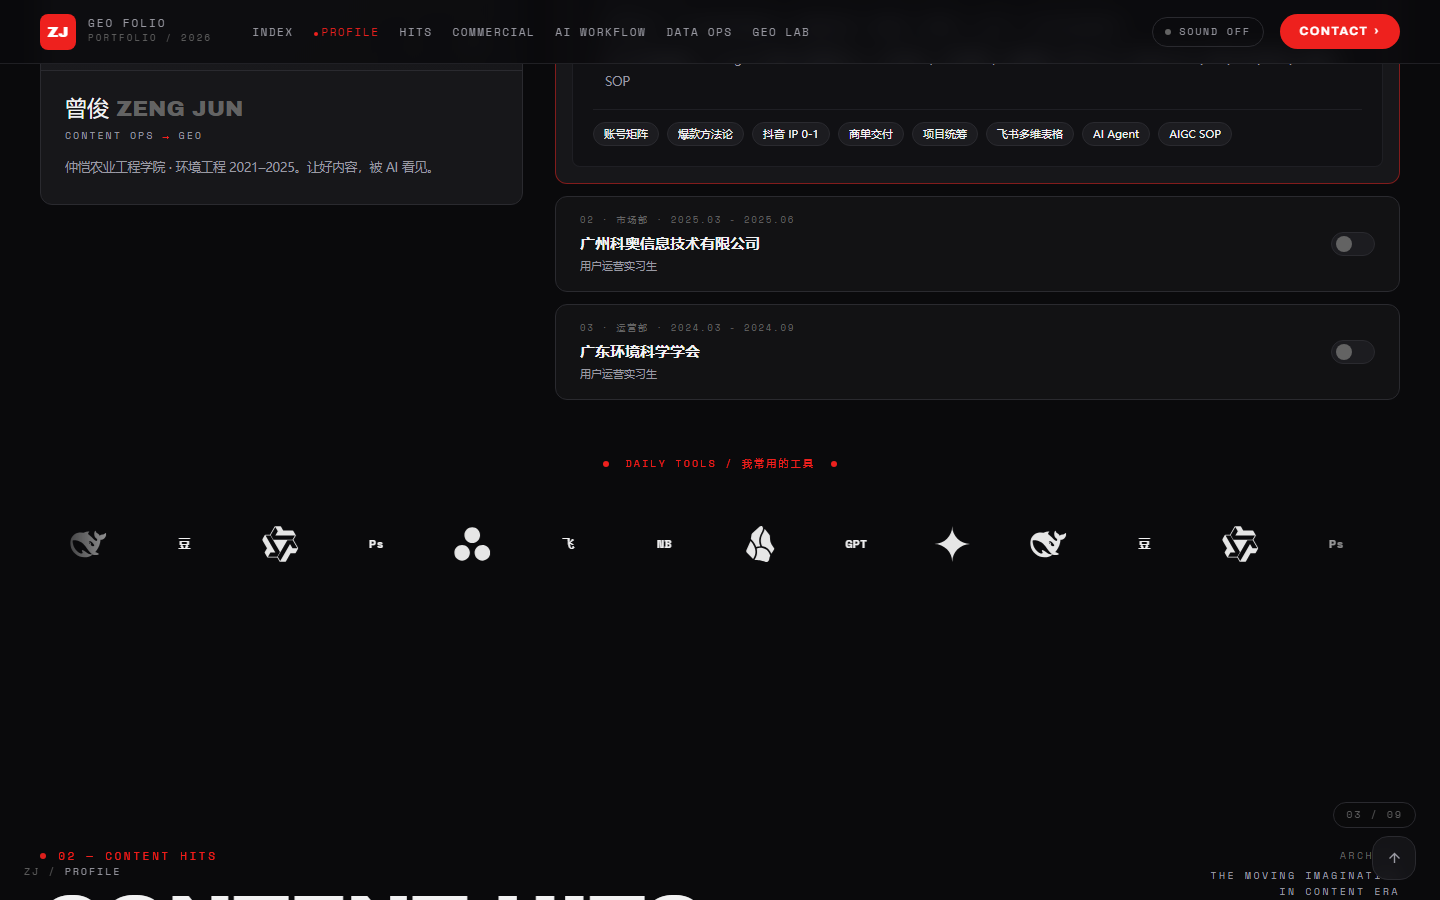
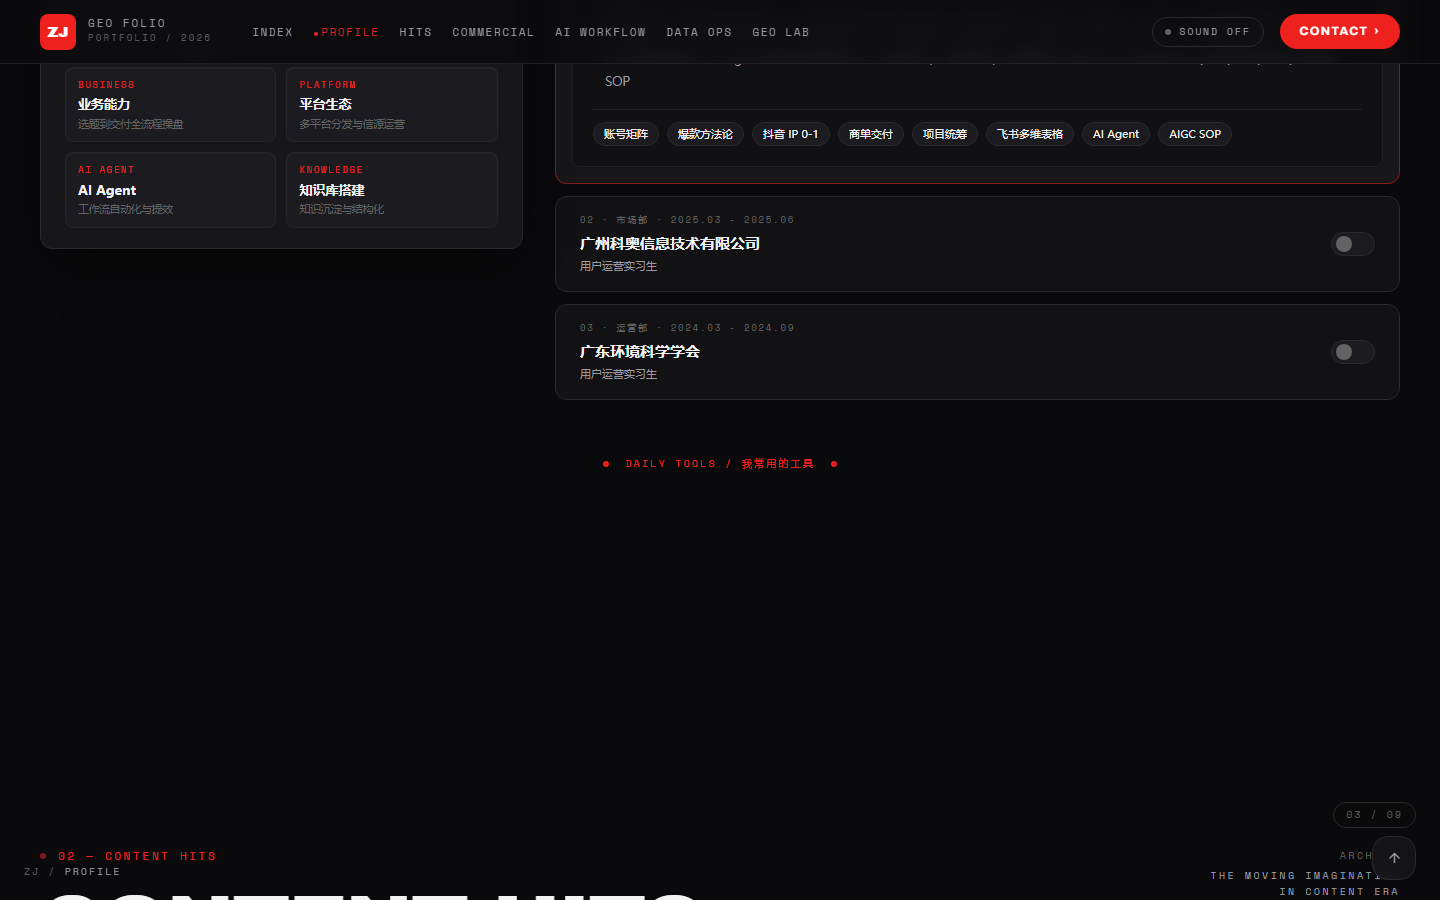
feat: GlowCursor 性能优化（空闲暂停/1x/60fps）；PROFILE 左卡光影层次与核心能力；文案细节修订

diff --git a/src/components/Profile.jsx b/src/components/Profile.jsx
@@ -15,6 +15,13 @@ const TOOL_GRADIENTS = [
   ['#7EE787', '#FFD166'],
 ]
 
+const CORE_SKILLS = [
+  { en: 'BUSINESS', cn: '业务能力', desc: '品牌种草+IP孵化全流程操盘' },
+  { en: 'PLATFORM', cn: '平台生态', desc: '多平台分发与信源运营' },
+  { en: 'AI AGENT', cn: 'AI Agent', desc: '工作流自动化与提效' },
+  { en: 'KNOWLEDGE', cn: '知识库搭建', desc: '知识沉淀、结构化以及自我更新迭代' },
+]
+
 function ToolTile({ name, slug, glyph, gradient }) {
   const [broken, setBroken] = useState(false)
   return (
@@ -58,12 +65,28 @@ export default function Profile() {
         />
 
         <div className="grid gap-8 xl:grid-cols-[minmax(0,0.8fr)_minmax(0,1.4fr)]">
-          {/* 左：形象照 + 姓名合并卡片 */}
+          {/* 左：形象照 + 姓名 + 核心能力 */}
           <aside data-reveal>
-            <div className="group relative overflow-hidden rounded-xl border border-line bg-panel transition-colors duration-300 hover:border-brand/50">
-              <div className="relative flex aspect-[4/3] items-center justify-center overflow-hidden border-b border-line bg-gradient-to-br from-panel2 to-panel">
+            <div className="group relative overflow-hidden rounded-xl border border-line bg-panel shadow-[inset_0_1px_0_rgba(255,255,255,0.06),0_20px_50px_-20px_rgba(0,0,0,0.8)] transition-all duration-500 hover:-translate-y-1 hover:border-brand/40 hover:shadow-[inset_0_1px_0_rgba(255,255,255,0.08),0_30px_60px_-20px_rgba(238,33,30,0.25)]">
+              {/* 人像区：红色对角光晕 + 细网格 */}
+              <div
+                className="relative flex h-44 items-center justify-center overflow-hidden border-b border-line"
+                style={{
+                  background:
+                    'radial-gradient(120% 120% at 15% 0%, rgba(238,33,30,0.28) 0%, rgba(238,33,30,0.04) 45%, transparent 70%), linear-gradient(135deg, #14151a 0%, #0d0e13 100%)',
+                }}
+              >
+                <div
+                  className="pointer-events-none absolute inset-0 opacity-[0.15]"
+                  style={{
+                    backgroundImage:
+                      'linear-gradient(rgba(255,255,255,0.5) 1px, transparent 1px), linear-gradient(90deg, rgba(255,255,255,0.5) 1px, transparent 1px)',
+                    backgroundSize: '28px 28px',
+                    maskImage: 'radial-gradient(80% 80% at 30% 20%, black, transparent)',
+                  }}
+                />
                 <svg
-                  className="h-20 w-20 text-mute/50"
+                  className="h-16 w-16 text-mute/40"
                   viewBox="0 0 24 24"
                   fill="none"
                   stroke="currentColor"
@@ -72,10 +95,10 @@ export default function Profile() {
                   <circle cx="12" cy="8" r="4" />
                   <path d="M4 21c0-4 3.6-6.5 8-6.5s8 2.5 8 6.5" />
                 </svg>
-                <span className="absolute left-4 top-4 mono text-[9px] tracking-[0.25em] text-mute">
+                <span className="absolute left-4 top-3 mono text-[9px] tracking-[0.25em] text-mute">
                   PORTRAIT
                 </span>
-                <span className="absolute bottom-4 right-4 cn rounded border border-line/70 bg-bg/70 px-2 py-1 text-[10px] text-mute">
+                <span className="absolute bottom-3 right-4 cn rounded border border-line/70 bg-bg/70 px-2 py-0.5 text-[10px] text-mute backdrop-blur-sm">
                   【待补：个人形象照】
                 </span>
               </div>
@@ -89,6 +112,24 @@ export default function Profile() {
                 <p className="cn mt-3 text-[12.5px] leading-[1.9] text-sub">
                   仲恺农业工程学院 · 环境工程 2021–2025。让好内容，被 AI 看见。
                 </p>
+              </div>
+              {/* 核心能力 */}
+              <div className="border-t border-line/70 px-6 py-5">
+                <p className="mono mb-3 text-[9px] tracking-[0.25em] text-mute">
+                  CORE SKILLS / 核心能力
+                </p>
+                <div className="grid grid-cols-2 gap-2.5">
+                  {CORE_SKILLS.map((s) => (
+                    <div
+                      key={s.en}
+                      className="group/skill rounded-lg border border-line/70 bg-panel2 px-3 py-2.5 shadow-[inset_0_1px_0_rgba(255,255,255,0.04)] transition-all duration-300 hover:-translate-y-0.5 hover:border-brand/50 hover:bg-[#1a1416] hover:shadow-[0_8px_20px_-8px_rgba(238,33,30,0.4)]"
+                    >
+                      <p className="mono text-[9px] tracking-[0.18em] text-brand">{s.en}</p>
+                      <p className="cn mt-0.5 text-[13px] font-bold text-text">{s.cn}</p>
+                      <p className="cn mt-0.5 text-[10.5px] leading-snug text-mute">{s.desc}</p>
+                    </div>
+                  ))}
+                </div>
               </div>
             </div>
           </aside>
@@ -116,7 +157,7 @@ export default function Profile() {
                       aria-expanded={open}
                     >
                       <span className="flex-1 min-w-0">
-                        <span className="mono block text-[9px] tracking-[0.2em] text-mute">
+                        <span className="mono block text-[11px] tracking-[0.18em] text-sub">
                           {String(i + 1).padStart(2, '0')} · {exp.dept} · {exp.period}
                         </span>
                         <span className="cn mt-1 block text-[15px] font-bold text-text">

diff --git a/src/data/content.js b/src/data/content.js
@@ -217,7 +217,7 @@ export const INTERNSHIP = {
 export const AI_TOOLS = [
   {
     code: 'A-01',
-    name: 'ChatGPT / Gemini / DeepSeek',
+    name: 'ChatGPT / Gemini / DeepSeek 等语言大模型',
     en: 'MULTI-MODEL ROUTING',
     use: '按任务分工使用，不同需求配不同工具',
     output: null,
@@ -225,9 +225,9 @@ export const AI_TOOLS = [
   },
   {
     code: 'A-02',
-    name: 'Coze',
-    en: 'AGENT / AUTOMATION',
-    use: '机器人 / 自动化工作流，与 05 数据中台联动',
+    name: 'Agent 大模型编排',
+    en: 'AGENT ORCHESTRATION',
+    use: '用 Agent 搭建轻量化工具：模型 + Skill + 个人知识库组合调用，持续更新迭代，精准完成任务',
     output: null,
     pendingText: '工作流画布、节点、运行记录截图',
   },
@@ -241,9 +241,9 @@ export const AI_TOOLS = [
   },
   {
     code: 'A-04',
-    name: 'Obsidian 个人知识库',
-    en: 'KNOWLEDGE BASE',
-    use: '本 GEO 知识库本身：概念 / 业务流程 / 平台信源 / 监测迭代 / 面试准备 / 行业调研',
+    name: 'Obsidian 个人 + 工作知识库',
+    en: 'PERSONAL + WORK KNOWLEDGE',
+    use: 'Obsidian 是主力：个人知识更新迭代、工作方法论、工作内容整理都沉淀在这里；飞书知识库与 NotebookLM 侧重工作场景协同',
     output: null,
     pendingText: '目录树、MOC 首页、笔记正文截图（重点证据）',
   },
@@ -281,9 +281,9 @@ export const GEO_STANCE =
 
 // ---------- CONTACT / FAQ ----------
 export const CONTACT_ROWS = [
-  ['MAIL', '邮箱', null],
-  ['WECHAT', '微信', null],
-  ['TEL', '电话', null],
+  ['MAIL', '邮箱', '1075584739@qq.com'],
+  ['WECHAT', '微信', 'kFcVMe616'],
+  ['TEL', '电话', '15019181937'],
   ['BASE', '常驻', 'GUANGZHOU, CHINA · 广州'],
 ]
 
@@ -321,7 +321,7 @@ export const EXPERIENCE = [
       '主导 6 个 3C 数码矩阵账号从 0→1 的内容定位、选题、审核与发布节奏，跑通 5 个万粉标杆 IP；矩阵累计发布 286 条内容，全网总播放 1413W+、总互动 21W+、净增粉丝 6.6W+（矩阵口径）',
       '独立完成抖音垂直 IP 0→1：热点捕捉 → 脚本 → 拍摄剪辑 → 发布 → 粉丝运营全流程，单账号 0→1.06W 粉、累计获赞 124W+；用豆+/内容加热放大冷启动，沉淀「热点＋钩子结构」爆款方法论',
       '品牌商单交付：解读 Brief、跨平台种草整合营销，管理 KOC/素人资源与稿件合规，助力团队月营业额 30W+；负责里程碑倒排、走款跟进与成本核算',
-      '双鱼体育 × 十五运事件营销执行：管理百家号、搜狐号、网易号、公众号、今日头条内容发布',
+      '双鱼体育 × 十五运事件营销执行：对接其他部门进行沟通审稿，管理百家号、搜狐号、网易号、公众号、今日头条内容发布',
       '用飞书多维表格 + AI Agent 搭部门级数据中台：自动监控、异常预警、定期复盘；推动 AIGC 内容生产线（生图/文案/视频）落地为 SOP',
     ],
     keywords: ['账号矩阵', '爆款方法论', '抖音 IP 0-1', '商单交付', '项目统筹', '飞书多维表格', 'AI Agent', 'AIGC SOP'],
@@ -332,7 +332,7 @@ export const EXPERIENCE = [
     role: '用户运营实习生',
     period: '2025.03 - 2025.06',
     points: [
-      '参与制定「艾思科盛」品牌全网运营策略，统筹公众号 / 小红书 / B站 / CSDN 多平台矩阵 0→1，累计产出 232 篇内容，全网总曝光 43W+、互动 8.8K+，渗透目标科研用户圈层',
+      '参与制定艾思科蓝品牌全网运营策略，统筹公众号 / 小红书 / B站 / CSDN 多平台矩阵 0→1，累计产出 232 篇内容，全网总曝光 43W+、互动 8.8K+，渗透目标科研用户圈层',
       '主导公众号与小红书选题图文策划，打造高粘性干货内容：小红书单篇浏览 30W+（互动 6K+）、公众号 3.1W+，公域流量沉淀至品牌私域',
       '搭建「内容 → 线索 → 成交」转化路径，促成 2 单高客单论文辅导、变现 4.7W，验证内容商业化闭环',
       '专家/学者等高价值用户全周期维系，横向协调商务/开发/学术资源，保障交付按时按质',

diff --git a/src/components/GlowCursor.jsx b/src/components/GlowCursor.jsx
@@ -219,6 +219,7 @@ const GlowCursor = ({
     let lastInputTime = performance.now()
     let lastFrameTime = performance.now()
     let raf = 0
+    let lastRenderAt = 0
     let destroyed = false
 
     const resize = () => {
@@ -248,6 +249,8 @@ const GlowCursor = ({
       target.y = y
       pointerInside = true
       lastInputTime = performance.now()
+      // 空闲暂停后，新的指针事件唤醒渲染循环
+      if (!destroyed && raf === 0) raf = requestAnimationFrame(render)
     }
     const onPointerLeave = () => {
       pointerInside = false
@@ -259,6 +262,12 @@ const GlowCursor = ({
       const config = propsRef.current
       const delta = Math.min((now - lastFrameTime) / 16.667, 3)
       lastFrameTime = now
+      // 高刷屏节流：60fps 上限，减少全屏 shader 的 GPU 填充压力
+      if (now - lastRenderAt < 15) {
+        if (!destroyed) raf = requestAnimationFrame(render)
+        return
+      }
+      lastRenderAt = now
       if (initialized) {
         const headEase = 1 - Math.pow(1 - clamp(config.followSpeed, 0.01, 0.99), delta)
         const chainBase = clamp(0.28 + config.followSpeed * 0.35, 0.08, 0.92)
@@ -296,6 +305,13 @@ const GlowCursor = ({
       program.uniforms.uNormalBlend.value = config.blendMode === 'normal' ? 1 : 0
       program.uniforms.uTime.value = now * 0.001
       program.uniforms.uFade.value = fade
+      // 完全淡出且目标为 0 时，清一次画面并暂停 RAF，避免空闲时持续占用 GPU
+      if (fade < 0.01 && fadeTarget === 0) {
+        gl.clearColor(0, 0, 0, 0)
+        gl.clear(gl.COLOR_BUFFER_BIT)
+        raf = 0
+        return
+      }
       renderer.render({ scene: mesh })
       if (!destroyed) raf = requestAnimationFrame(render)
     }

diff --git a/src/components/Contact.jsx b/src/components/Contact.jsx
@@ -62,8 +62,9 @@ export default function Contact() {
                 >
                   <summary className="cn flex cursor-pointer list-none items-center justify-between gap-4 text-[13.5px] font-bold text-text marker:hidden">
                     {f.q}
-                    <span className="mono shrink-0 text-brand transition-transform group-open:rotate-45">
-                      +
+                    {/* iOS 风胶囊开关：与任职经历一致 */}
+                    <span className="relative inline-flex h-6 w-11 shrink-0 items-center rounded-full border border-line bg-panel2 transition-colors duration-300 group-open:border-brand group-open:bg-brand">
+                      <span className="absolute left-1 h-4 w-4 rounded-full bg-mute transition-all duration-300 group-open:left-[26px] group-open:bg-white" />
                     </span>
                   </summary>
                   <p className="cn mt-3 text-[12.5px] leading-[1.9] text-sub">{f.a}</p>

diff --git a/src/components/AiWorkflow.jsx b/src/components/AiWorkflow.jsx
@@ -47,10 +47,10 @@ export default function AiWorkflow() {
           >
             <p className="mono text-[10px] tracking-[0.22em] text-brand">ROUTING PRINCIPLE</p>
             <p className="cn mt-3 text-[15px] font-bold leading-relaxed text-text">
-              不同需求配不同工具——模型负责生成，Agent 负责自动化，知识库负责沉淀，看板负责决策。
+              不同需求配不同工具——模型负责生成，Agent 负责编排，知识库负责沉淀，看板负责决策。
             </p>
             <p className="mono mt-4 text-[9px] tracking-[0.18em] text-mute">
-              LLM × COZE × BITABLE × OBSIDIAN
+              LLM × AGENT × BITABLE × OBSIDIAN
             </p>
           </article>
         </div>

diff --git a/src/App.jsx b/src/App.jsx
@@ -31,7 +31,7 @@ export default function App() {
           trailLength={32}
           trailWidth={5}
           trailTaper={0.7}
-          followSpeed={0.16}
+          followSpeed={0.42}
           glowIntensity={2.2}
           glowSpread={1.4}
           hotspot={0.8}
@@ -43,6 +43,7 @@ export default function App() {
           idleTimeout={700}
           fadeDuration={700}
           blendMode="screen"
+          maxDevicePixelRatio={1}
         />
       )}
       <TopNav />

diff --git a/src/components/IndexSection.jsx b/src/components/IndexSection.jsx
@@ -44,7 +44,7 @@ function Card({ card, isActive, tone }) {
         ))}
       </h3>
       <p
-        className={`cn mt-2 text-[12px] leading-snug ${
+        className={`cn mt-2 text-[15px] leading-snug ${
           paper ? 'text-ink/60' : 'text-paper/90'
         }`}
       >
